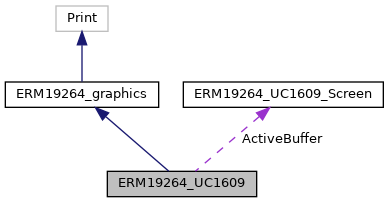
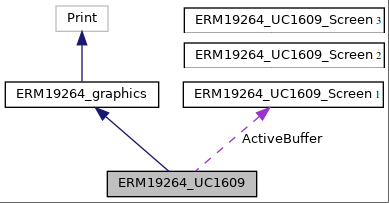
version 1.7.0

Changed region(s): [[0.0, 0.0, 1.0, 1.0]]

diff --git a/src/ERM19264_UC1609.cpp b/src/ERM19264_UC1609.cpp
@@ -66,23 +66,30 @@ ERM19264_UC1609::ERM19264_UC1609(int8_t cd, int8_t rst, int8_t cs, int8_t sclk, 
 /*!
 	@brief begin Method initialise LCD  Sets pinmodes and SPI setup
 	@param VbiasPOT contrast default = 0x49 , range 0x00 to 0xFE
+	@param AddressSet AC [2:0] registers for RAM addr ctrl. default=2 range 0-7
  */
-void ERM19264_UC1609::LCDbegin (uint8_t VbiasPOT)
+void ERM19264_UC1609::LCDbegin (uint8_t VbiasPOT, uint8_t AddressSet)
 {
 	pinMode(_LCD_CD , OUTPUT);
 	pinMode(_LCD_RST, OUTPUT);
 	pinMode(_LCD_CS, OUTPUT);
 
 	_VbiasPOT  = VbiasPOT;
+	
+	if (AddressSet > 7 ) // Check User input. Address set cannot exceed 7.
+	{
+		AddressSet = UC1609_ADDRESS_SET;
+	}
+	_AddressCtrl = AddressSet;
 
 	if (isHardwareSPI())
 	{
-	 SPI.begin();
+		SPI.begin();
 	}else
 	{
 	 // Set software SPI specific pin outputs.
-	pinMode(_LCD_DIN, OUTPUT);
-	pinMode(_LCD_SCLK, OUTPUT);
+		pinMode(_LCD_DIN, OUTPUT);
+		pinMode(_LCD_SCLK, OUTPUT);
 	}
 
 	LCDinit();
@@ -104,7 +111,7 @@ void ERM19264_UC1609::LCDinit()
 	UC1609_CS_SetLow;
 
 	send_command(UC1609_TEMP_COMP_REG, UC1609_TEMP_COMP_SET);
-	send_command(UC1609_ADDRESS_CONTROL, UC1609_ADDRESS_SET);
+	send_command(UC1609_ADDRESS_CONTROL, _AddressCtrl);
 	send_command(UC1609_FRAMERATE_REG, UC1609_FRAMERATE_SET);
 	send_command(UC1609_BIAS_RATIO, UC1609_BIAS_RATIO_SET);
 	send_command(UC1609_POWER_CONTROL,  UC1609_PC_SET);
@@ -461,5 +468,17 @@ void ERM19264_UC1609::drawPixel(int16_t x, int16_t y, uint8_t colour)
 			case COLORINVERSE: this->ActiveBuffer->screenBuffer[offset] ^= (1 << (y & 7)); break;
 		}
 }
+
+/*!
+	@brief Getter for _VbiasPOT contrast member
+	@return value of_VbiasPOT
+*/
+uint8_t ERM19264_UC1609::LCDGetConstrast(void){return _VbiasPOT;}
+
+/*!
+	@brief Getter for _AddressCtrl Display RAM address control member
+	@return value of _AddressCtrl
+*/
+uint8_t ERM19264_UC1609::LCDGetAddressCtrl(void){return _AddressCtrl;}
 
 // === EOF ===

diff --git a/src/ERM19264_UC1609.h b/src/ERM19264_UC1609.h
@@ -136,7 +136,7 @@ class ERM19264_UC1609 : public ERM19264_graphics {
      void LCDclearBuffer(void);
      void LCDBuffer(int16_t x, int16_t y, uint8_t w, uint8_t h, uint8_t* data);
 
-    void LCDbegin(uint8_t VbiasPot = UC1609_DEFAULT_GN_PM );
+    void LCDbegin(uint8_t VbiasPot = UC1609_DEFAULT_GN_PM , uint8_t AddressSet =UC1609_ADDRESS_SET);
     void LCDinit(void);
     void LCDEnable(uint8_t on);
     void LCDFillScreen(uint8_t pixel, uint8_t mircodelay);
@@ -150,6 +150,8 @@ class ERM19264_UC1609 : public ERM19264_graphics {
     void LCDBitmap(int16_t x, int16_t y, uint8_t w, uint8_t h, const uint8_t* data);
     void LCDPowerDown(void);
     
+    uint8_t LCDGetConstrast(void);
+    uint8_t LCDGetAddressCtrl(void);
     ERM19264_UC1609_Screen* ActiveBuffer = nullptr; /**< Active buffer pointer , a pointer to which screen object shared buffer will be written to */
 
   private:
@@ -165,6 +167,7 @@ class ERM19264_UC1609 : public ERM19264_graphics {
     int8_t _LCD_SCLK; /**< GPIO Clock Line Software SPI only*/
     int8_t _LCD_DIN;  /**< GPIO MOSI Line Software SPI only*/
     uint8_t _VbiasPOT; /**< Contrast default 0x49 datasheet 00-FE */
+    uint8_t _AddressCtrl; /**< Set AC [2:0] Program registers  for RAM address control. 0x00 to 0x07*/
     
     
 };

diff --git a/README.md b/README.md
@@ -102,7 +102,7 @@ and the ActiveBuffer pointer to switch the buffer between each screen. Multiple 
 
 If user does not want to use multi screen mode they can simply just define ONE screen to cover entire LCD screen. See example files and API for more detail.
 
-Figure :: The class structure with a single screen object. 
+Figure :: The class structure with three screen object's and active buffer presently pointing to number one. 
 
 ![ ERM19264 class image ](https://github.com/gavinlyonsrepo/ERM19264_UC1609/blob/main/extras/image/screenmode.png)
 
@@ -153,19 +153,27 @@ See the bitmap example file for more details on each method. Bitmaps can be turn
 
 ### User adjustments
 
+Some users have reported the LCD not initialising correctly with this software.
+It was found that by adjusting the RAM address control setting from 0x02 to 0x01.
+it resolved problem.  See [ github issue 4](https://github.com/gavinlyonsrepo/ERM19264_UC1609/issues/4) for details. I suspect the root cause is different versions of product on market. As of Version 1.7.0
+Users can adjust setting in the "begin" method argument list.
+
+![ ERM19264 ram image ](https://github.com/gavinlyonsrepo/ERM19264_UC1609/blob/main/extras/image/ram.png)
+
 When the user calls LCDbegin() to start LCD they can specify a contrast setting from 0x00 to 0xFF.
 Datasheet says 0x49 is default. (VbiasPOT). Lower contrast works better on the blue version.
 
 It is also possible for user to change LCD bias ,  Temperature coefficient, frame rate and power control but this must be done by changing defines in header file. Choose lower frame rate for lower power, and choose higher frame rate to improve LCD contrast and minimize flicker. See Data sheet for range of values
 here. Defaults where found to be fine during all testing of this library.
 
-| Parameter | default Values |  Define | Register |
+| Parameter | default Values |  Define | Register bits |
 | ------ | ------ |  ------ | ------ |
 | LCD bias |  9 | BIAS_RATIO_SET | BR 1:0 |
 | Temp coefficient | -0.00%/ C |  TEMP_COMP_SET | TC 1:0  |
 | Frame rate | 95 fps |  FRAMERATE_SET |  LC 4:3 |
 | Power control | 1.4mA + Internal VLCD (7x charge pump) |  PC_SET | PC 2:0 |
 | V bias Bot(contrast) | 0x49h default|  Set by user with LCDbegin | PM 7:0 |
+| Ram Address Control | 0x02 default |  Set by user with LCDbegin  | AC 2:0 |
 
 ### Example files 
 
@@ -174,7 +182,7 @@ here. Defaults where found to be fine during all testing of this library.
 | BITMAP | Shows use of bitmaps  | 
 | GRAPHICS |  Tests use of graphics   | 
 | MISC | Shows misc functions, rotate, invert etc | 
-| MULTISCREEN| Shows use of multi screen mode + FPS |  
+| MULTISCREEN| Shows use of multi screen mode + FPS, two screens |  
 | MULTISCREEN_TWO | Shows use of multi screen mode, four screens |  
 | TEXT | Shows use of text and fonts, All Fonts must be enabled to work fully  | 
 | SWSPI | Shows use of software SPI | 
@@ -193,12 +201,4 @@ by for other MCU testing see extras/doc folder GPIO_MCU_used.txt file.
 5. UNO Minima R4
 
 ## Notes and Issues
-
-### Note 1 LCD not initialising 
-
-Some users have reported the LCD not initialising correctly with this software.
-It was found that by adjusting the UC1609_ADDRESS_SET setting from 0x02 to 0x01.
-it resolved problem.  This setting is on line 41 of ERM19264_UC1609.h file.
-See [ github issue 4](https://github.com/gavinlyonsrepo/ERM19264_UC1609/issues/4) for details. I suspect the root cause is different versions of product on market.
-In a future version I will allow user to adjust this setting in "LCDbegin" method parameters.
 

diff --git a/extras/doc/CHANGELOG.md b/extras/doc/CHANGELOG.md
@@ -33,12 +33,15 @@
 	* Changed "UC1609_POWER_CONTROL" from 0x2F to 0x28. This sets it to the excepted datasheet default  , 1.4mA.
 
 * Version 1.6.0 May 2023
-	*  Added Doxygen style comments to create automated API (Application programming interface)
-	* Multi-screenmode :: Replaced  "MultiBuffer" struct with a" ERM19264_UC1609_Screen" class to improve code base  and simplify User interface.
-	Unfortunately this will break backwards compatibly with old sketches written pre 1.6.0. To Fix simply replace a & b with c , see example files for more details.
+	* Added Doxygen style comments to create automated API (Application programming interface) documentation. 
+	* Multi-screenmode :: Replaced  "MultiBuffer" struct with a" ERM19264_UC1609_Screen" class to improve code base and simplify 	User interface. Unfortunately this will break backwards compatibly with old sketches written pre 1.6.0. To Fix simply replace lines 1 & 2 with 3 , see example files for more implementation.
 		1. MultiBuffer myStruct;
 		2. mylcd.LCDinitBufferStruct(&myStruct, screenBuffer, MYLCDWIDTH, MYLCDHEIGHT, 0, 0);
 		with
 		3. ERM19264_UC1609_Screen fullScreen(screenBuffer, MYLCDWIDTH, MYLCDHEIGHT, 0, 0);
 
-	* Removed no buffer mode & single buffer mode. No buffer mode can be done by the basic 	Text only version  (ERM19264_UC1609_TEXT) & Single buffer can be done by Multi-screen mode.  
+	* Removed no buffer mode & single buffer mode. No buffer mode can be done by the basic Text only version  (ERM19264_UC1609_TEXT) & Single buffer can be done by Multi-screen mode when set to single screen.  
+
+* Version 1.7.0 Nov 2023
+	* Minor update, Allowed User to set Ram Address control bits in "begin" method, due to user concerns raised in github issue, 
+	 Address control setting #4.  
